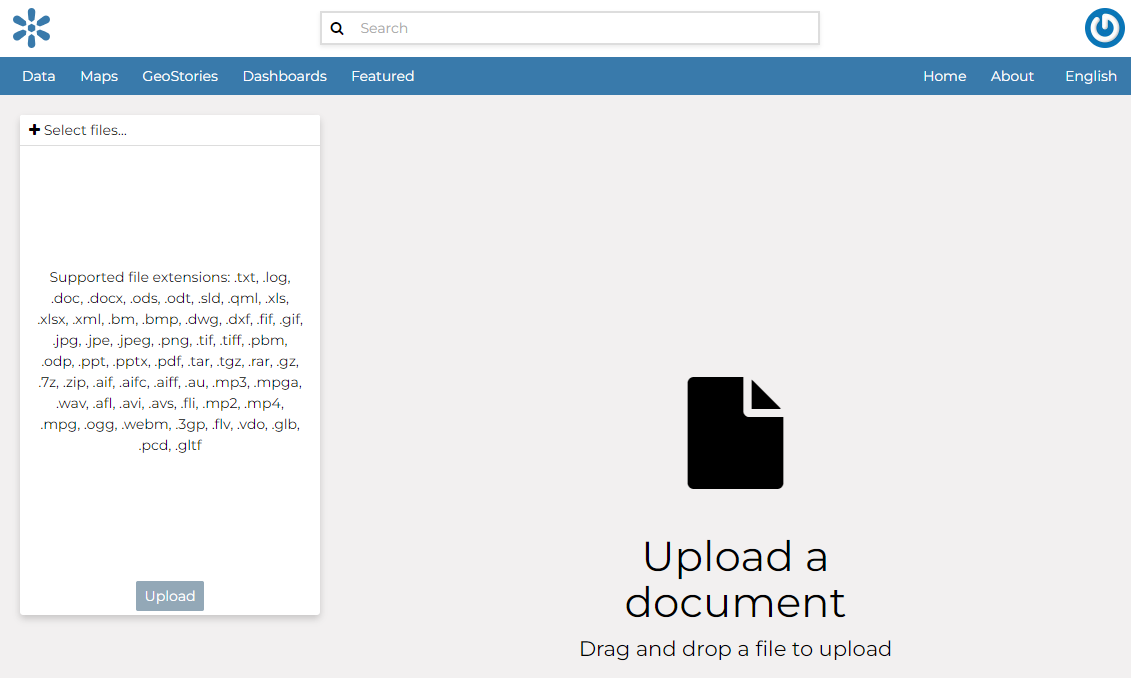
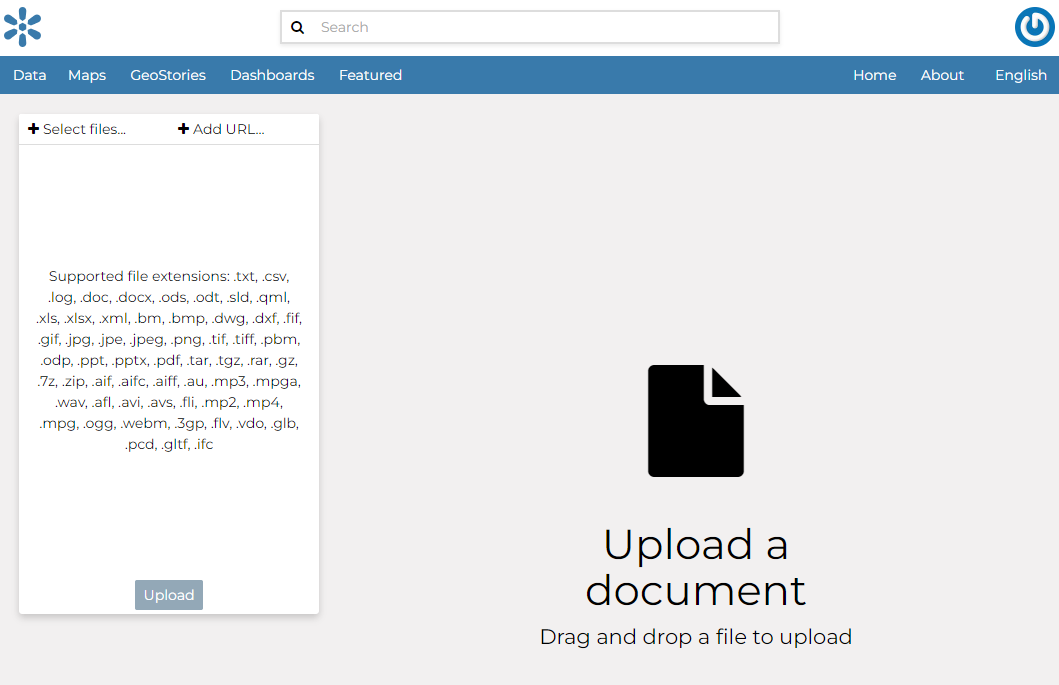
add_284

diff --git a/usage/managing_documents/uploading_documents.rst b/usage/managing_documents/uploading_documents.rst
@@ -21,10 +21,34 @@ The *Document Upload* page looks like the one shown in the picture below.
 
       *Document Upload page*
 
-In order to upload a document:
+Documents can be uploaded on *GeoNode* in two different ways:
 
+* From the **Local file**
+* From an **External URL**
+
+
+In order to upload a document from the **Local file**, you need to:
+
+#. Click on :guilabel:`Select files` button
 #. Select a file from your disk.
 #. Click the :guilabel:`Upload` button
+
+  .. figure:: img/select_files.png
+      :align: center
+
+      *Upload document from the select files option*
+
+For upload a document from the **External URL**, you need to:
+
+#. Click on :guilabel:`Add URL` button
+#. Select an URL
+#. Select an extension from the drop-down menu 
+#. Click the :guilabel:`Upload` button
+
+  .. figure:: img/add_url.png
+      :align: center
+
+      *Upload document from the add URL option*
 
 At the end of the uploading process, by clicking on the View button, you will be driven to the document page with the Info panel open. Here it is possible to view more info, edit metadata, share, download, and delete the document. See the next section to know more about Metatadata.
 
